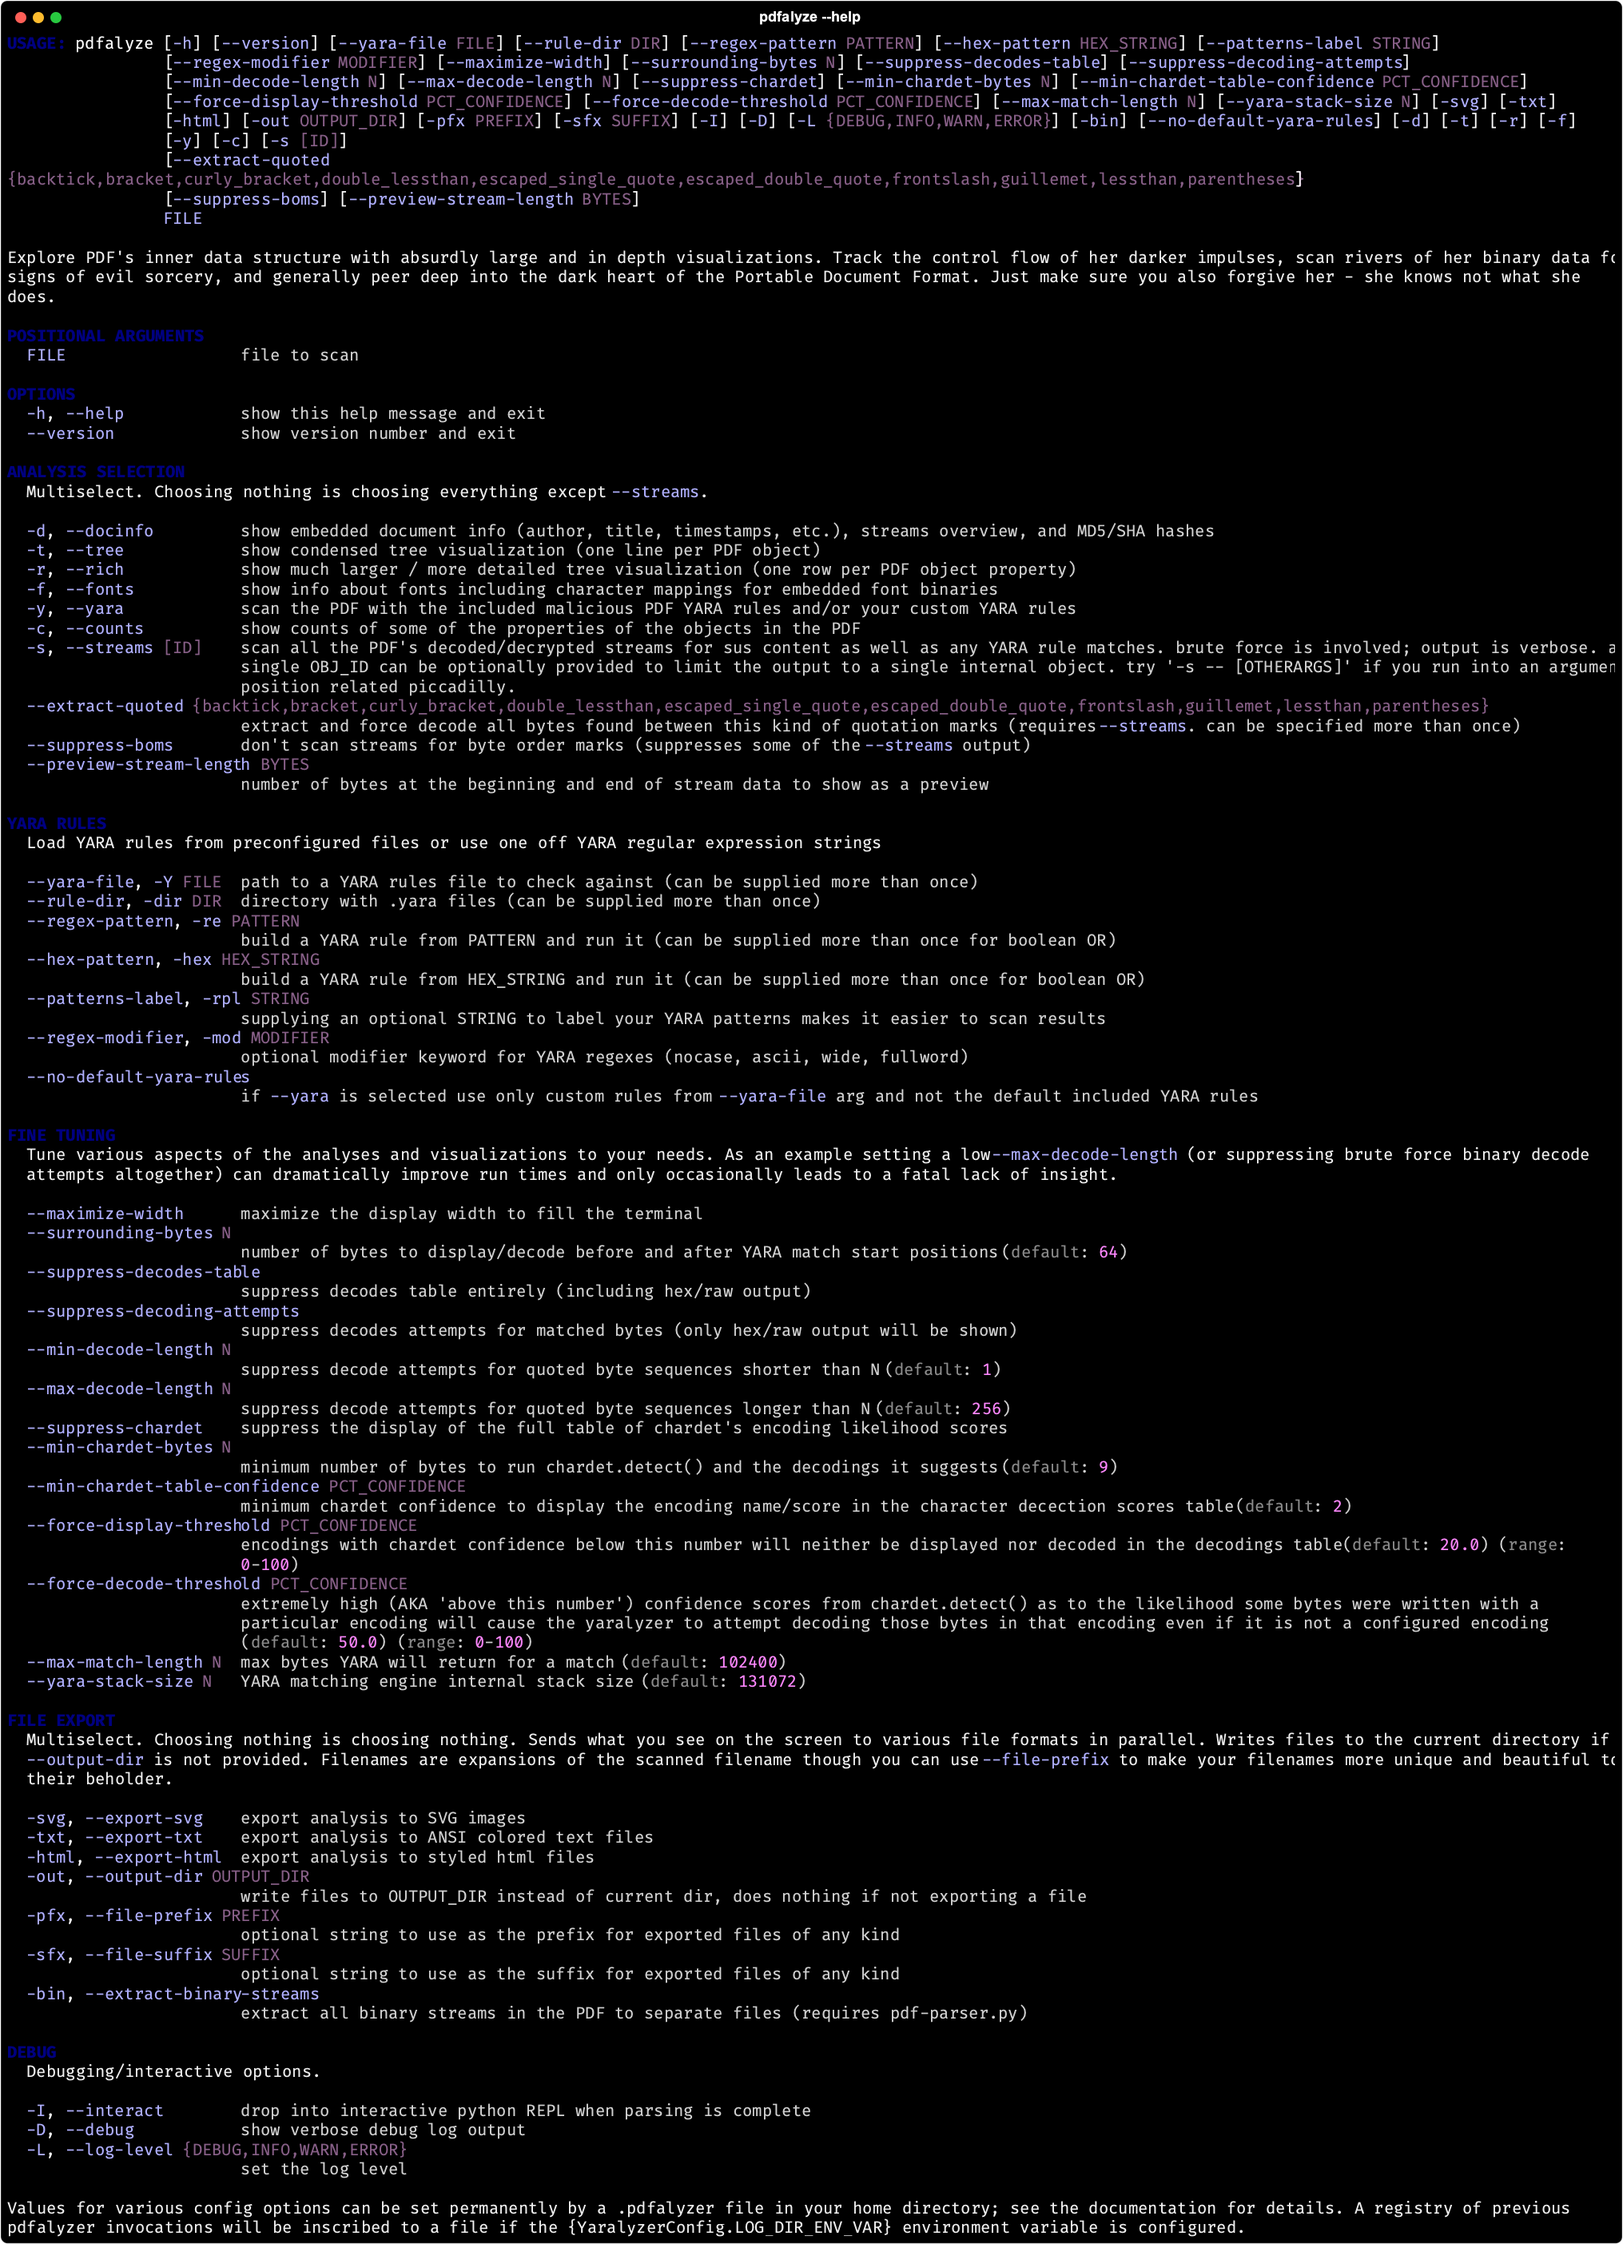
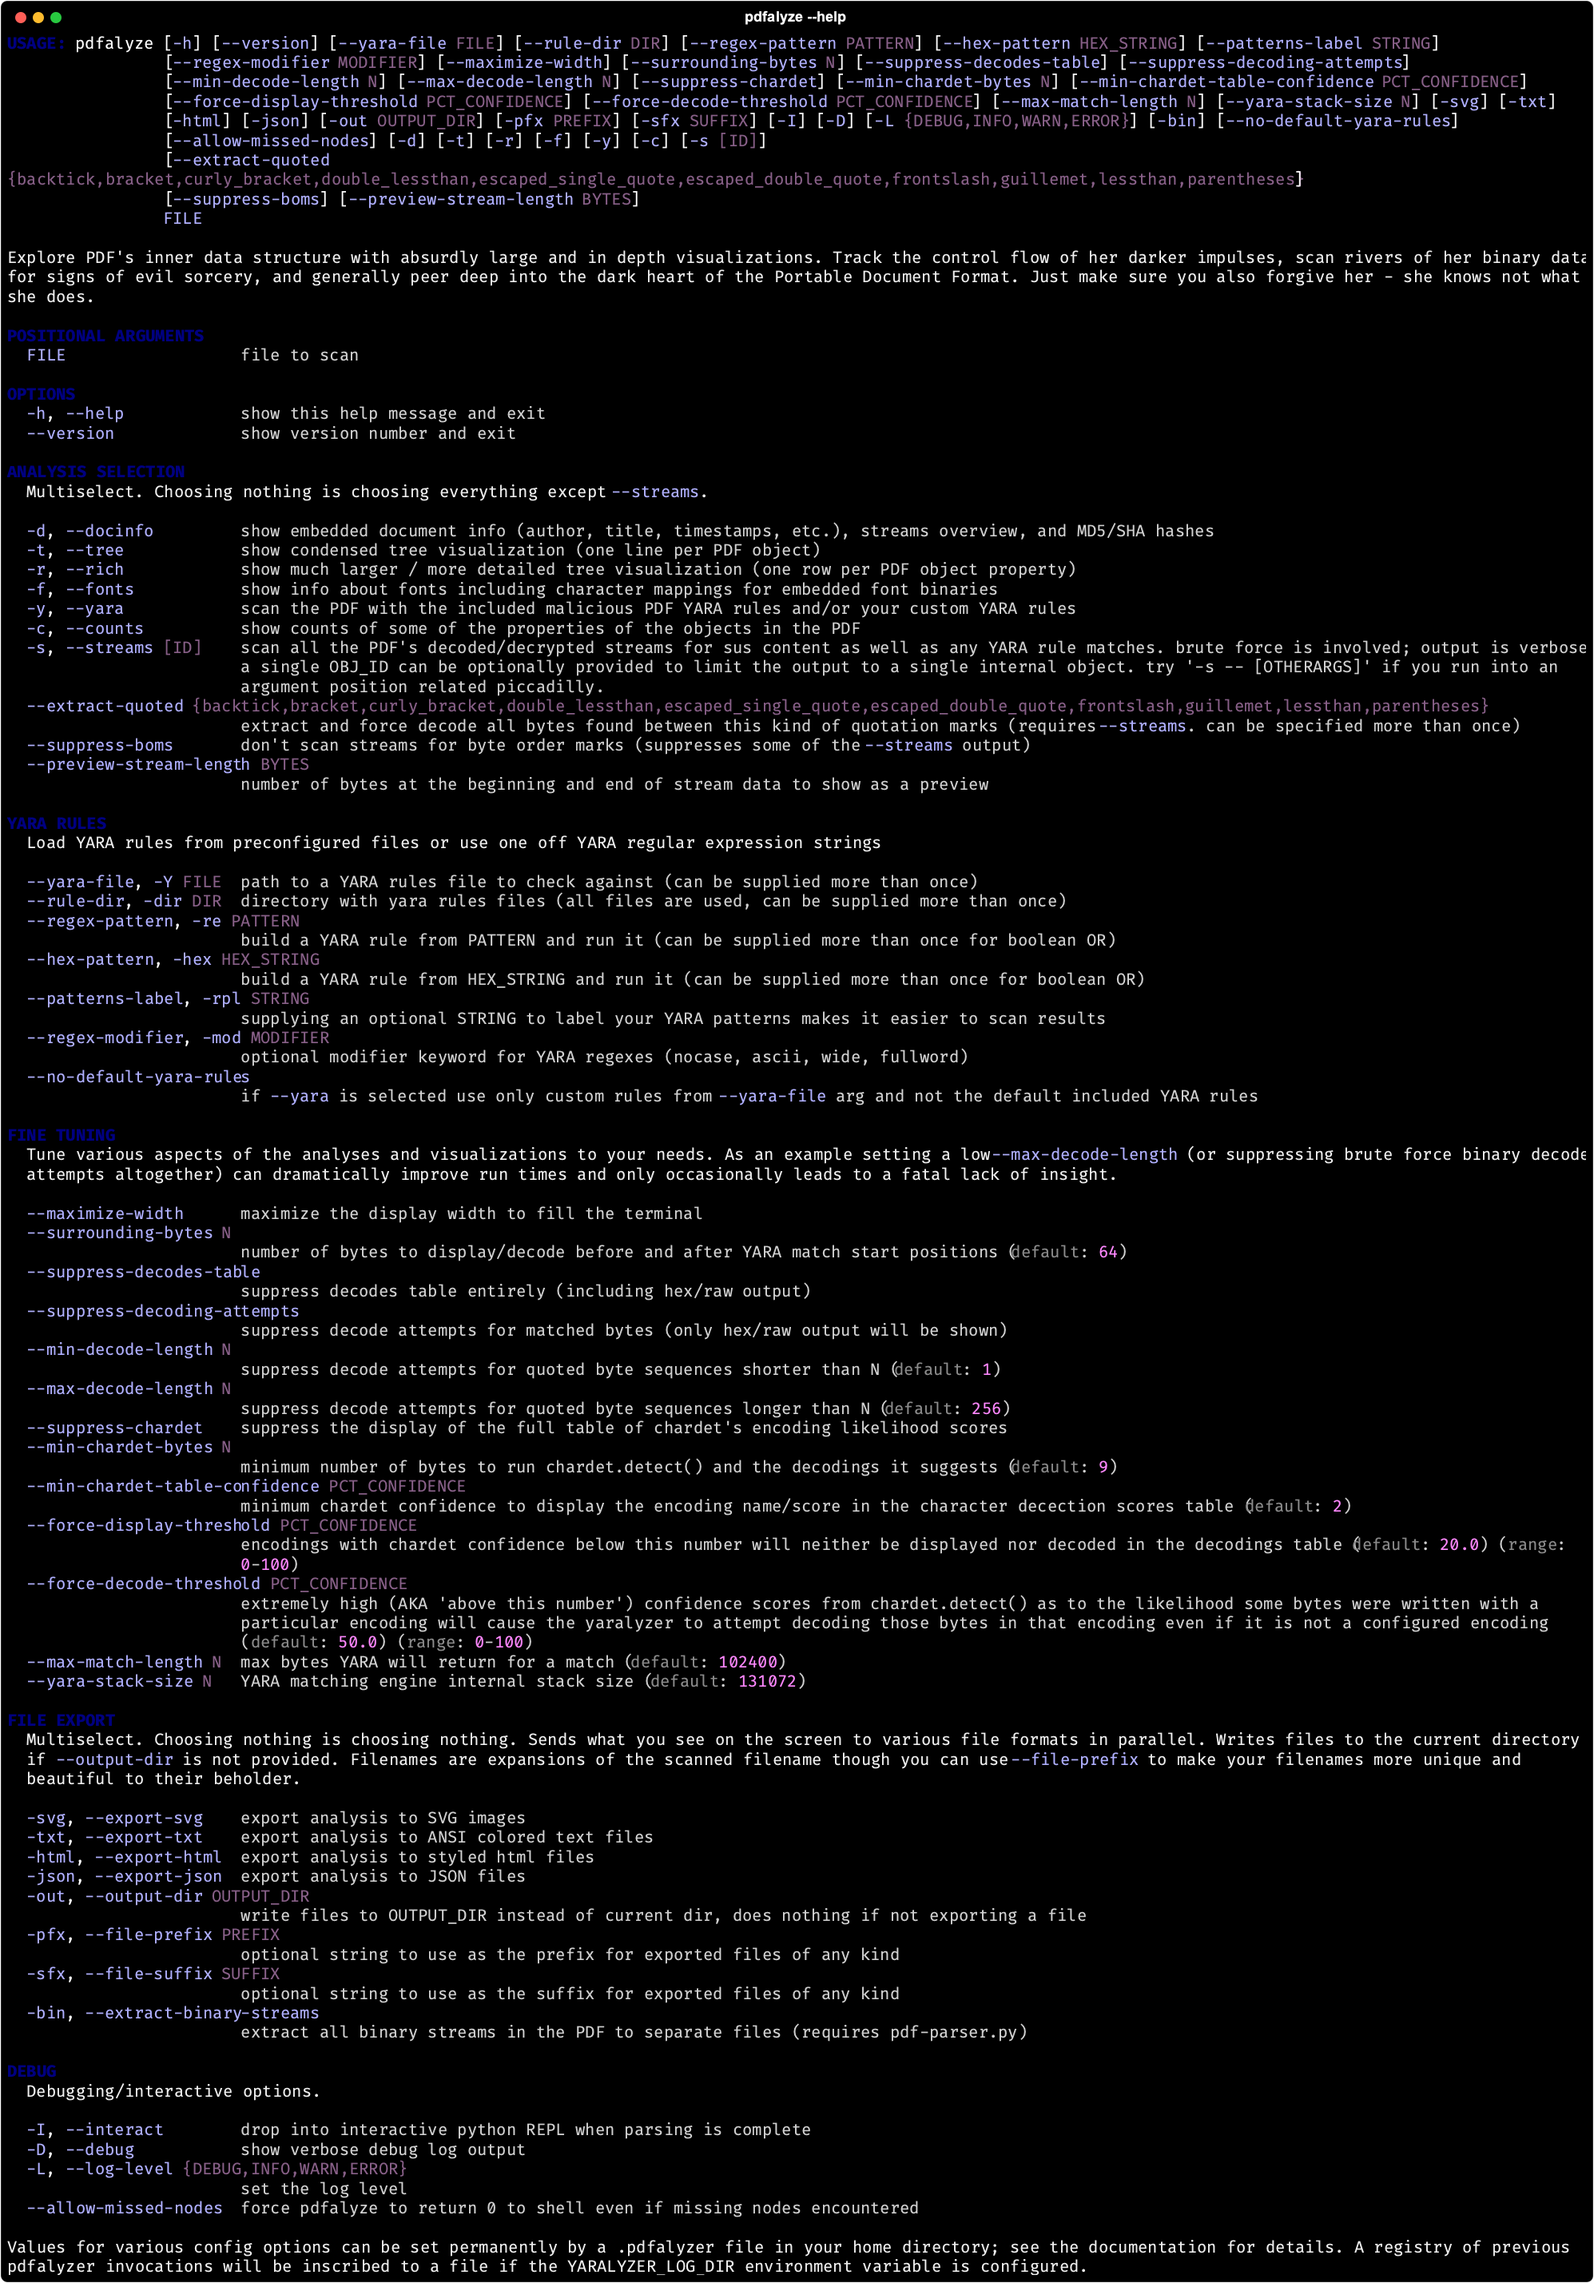
Fix help message epilog string

diff --git a/pdfalyzer/util/argument_parser.py b/pdfalyzer/util/argument_parser.py
@@ -13,6 +13,7 @@ from rich.prompt import Confirm
 from rich.text import Text
 from yaralyzer.util.argument_parser import debug, export, parser, parse_arguments as parse_yaralyzer_args, source
 from yaralyzer.util.logging import log, log_argparse_result, log_current_config, log_invocation
+from yaralyzer.config import YaralyzerConfig
 
 from pdfalyzer.config import PDFALYZE, PDFALYZER, PdfalyzerConfig
 from pdfalyzer.detection.constants.binary_regexes import QUOTE_PATTERNS
@@ -28,8 +29,8 @@ DESCRIPTION = "Explore PDF's inner data structure with absurdly large and in dep
 
 EPILOG = "Values for various config options can be set permanently by a .pdfalyzer file in your home directory; " + \
          "see the documentation for details. " + \
-         f"A registry of previous pdfalyzer invocations will be inscribed to a file if the " + \
-         "{YaralyzerConfig.LOG_DIR_ENV_VAR} environment variable is configured."
+         "A registry of previous pdfalyzer invocations will be inscribed to a file if the " + \
+         f"{YaralyzerConfig.LOG_DIR_ENV_VAR} environment variable is configured."
 
 DEFAULT_SECTIONS = [DOCINFO, TREE, RICH, FONTS, COUNTS, YARA]
 ALL_SECTIONS = DEFAULT_SECTIONS + [STREAMS]
